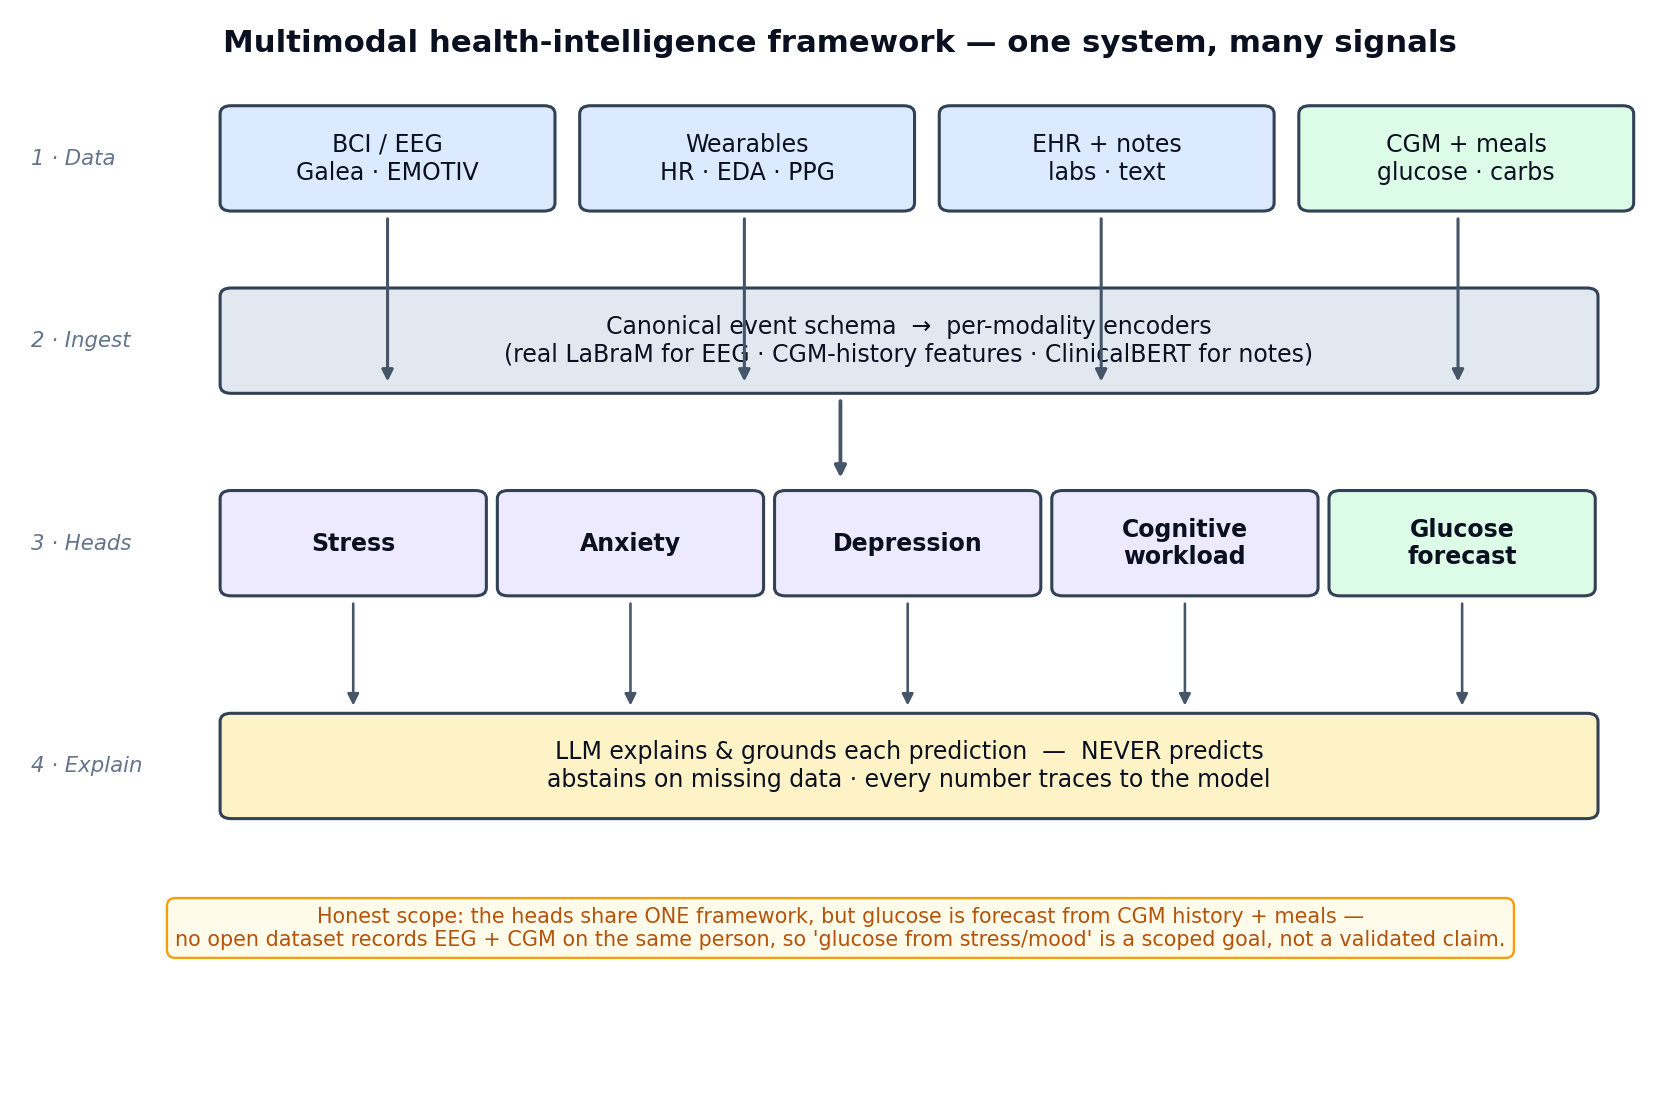
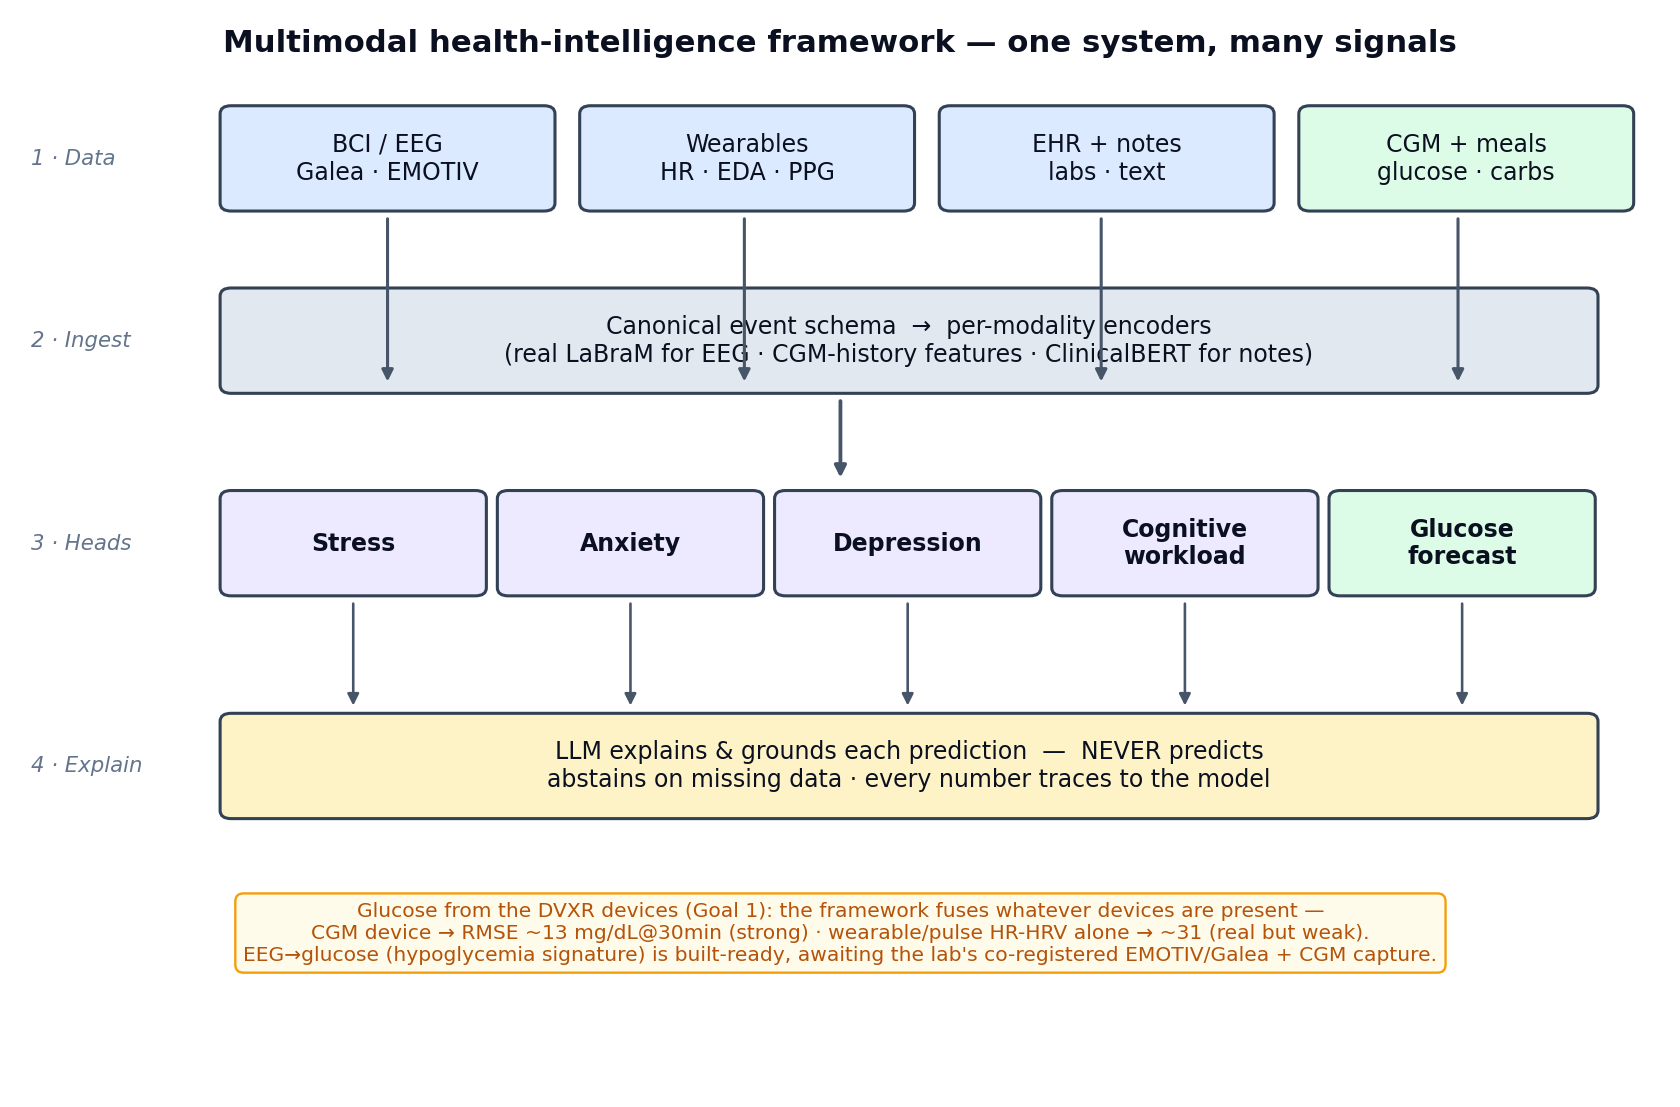
Simple model-flow mermaid + reframe framework as glucose-from-devices (Goal 1)
- docs/MODEL_FLOW.md: a simple top-to-bottom mermaid of the glucose model
  flow (device streams -> per-device experts -> availability-aware fusion
  -> residual over persistence -> calibrated forecast -> LLM explains).
- Reframe the framework-overview note: glucose IS predicted from the DVXR
  device streams via availability-aware fusion (CGM device ~13 mg/dL@30min;
  wearable/pulse HR-HRV alone ~31; EEG->glucose built-ready, awaiting the
  lab's co-registered EMOTIV/Galea+CGM capture) — correcting the earlier
  over-narrow 'not from devices' framing. This is POW Goal 1.

Changed region(s): [[0.0929, 0.7986, 0.8976, 0.8907]]

diff --git a/scripts/render_framework_overview.py b/scripts/render_framework_overview.py
@@ -84,12 +84,12 @@ def main() -> None:
         ax.annotate("", xy=(cx, 3.75), xytext=(cx, 4.85),
                     arrowprops=dict(arrowstyle="-|>", color="#475569", lw=1.1))
 
-    # honest note
-    ax.text(6, 1.6,
-            "Honest scope: the heads share ONE framework, but glucose is forecast from CGM history + meals —\n"
-            "no open dataset records EEG + CGM on the same person, so 'glucose from stress/mood' is a "
-            "scoped goal, not a validated claim.",
-            ha="center", va="center", fontsize=8.8, color="#b45309",
+    # honest note — glucose IS predicted from the device streams (Goal 1), per-device strength
+    ax.text(6, 1.55,
+            "Glucose from the DVXR devices (Goal 1): the framework fuses whatever devices are present —\n"
+            "CGM device → RMSE ~13 mg/dL@30min (strong) · wearable/pulse HR-HRV alone → ~31 (real but weak).\n"
+            "EEG→glucose (hypoglycemia signature) is built-ready, awaiting the lab's co-registered EMOTIV/Galea + CGM capture.",
+            ha="center", va="center", fontsize=8.6, color="#b45309",
             bbox=dict(boxstyle="round,pad=0.4", facecolor="#fffbeb", edgecolor="#f59e0b"))
 
     args.out.parent.mkdir(parents=True, exist_ok=True)

diff --git a/docs/MODEL_FLOW.md b/docs/MODEL_FLOW.md
@@ -1,0 +1,32 @@
+# Model flow (simple)
+
+The glucose forecaster at a glance — device streams in, calibrated forecast out, LLM
+explains. (For the detailed internals see `docs/MODEL_ARCHITECTURE.md`; for the whole
+system see `docs/FRAMEWORK_OVERVIEW.md`.)
+
+```mermaid
+flowchart TD
+    A["Device streams<br/>CGM · wearable/pulse HR · meals"] --> B["Causal features per device<br/>(past-only: lags, slopes, rolling stats)"]
+    B --> C["Per-device experts<br/>each predicts glucose + its uncertainty"]
+    C --> D["Availability-aware fusion<br/>weight by data quality · ABSTAIN if no device usable"]
+    D --> E["Residual over persistence<br/>correct the 'glucose stays flat' baseline"]
+    E --> F["Glucose forecast<br/>30 / 60 / 90 / 120 min + 95% interval"]
+    F --> G["Split-conformal calibration"]
+    G --> H["LLM explains the result<br/>(never predicts)"]
+```
+
+**How to read it**
+
+1. **Device streams** — whatever the DVXR devices provide: the CGM, the wearable/pulse
+   watch (HR/HRV), and logged meals. (EEG plugs in here too once co-registered EEG+CGM data
+   is collected.)
+2. **Causal features** — each stream becomes past-only features (no future leakage).
+3. **Per-device experts** — each device gets its own expert that outputs a glucose estimate
+   *and* an uncertainty; a device the model trusts less contributes less.
+4. **Availability-aware fusion** — experts are weighted by current data quality/staleness;
+   if no device is usable the model **abstains** instead of guessing.
+5. **Residual over persistence** — the network corrects the naive "glucose stays flat"
+   baseline, which is why it reliably beats it (RMSE ~13 vs 17.4 mg/dL @30 min).
+6. **Calibration + LLM** — a conformal interval makes the uncertainty honest; the LLM turns
+   the numbers into a readable explanation without inventing any value.
+```